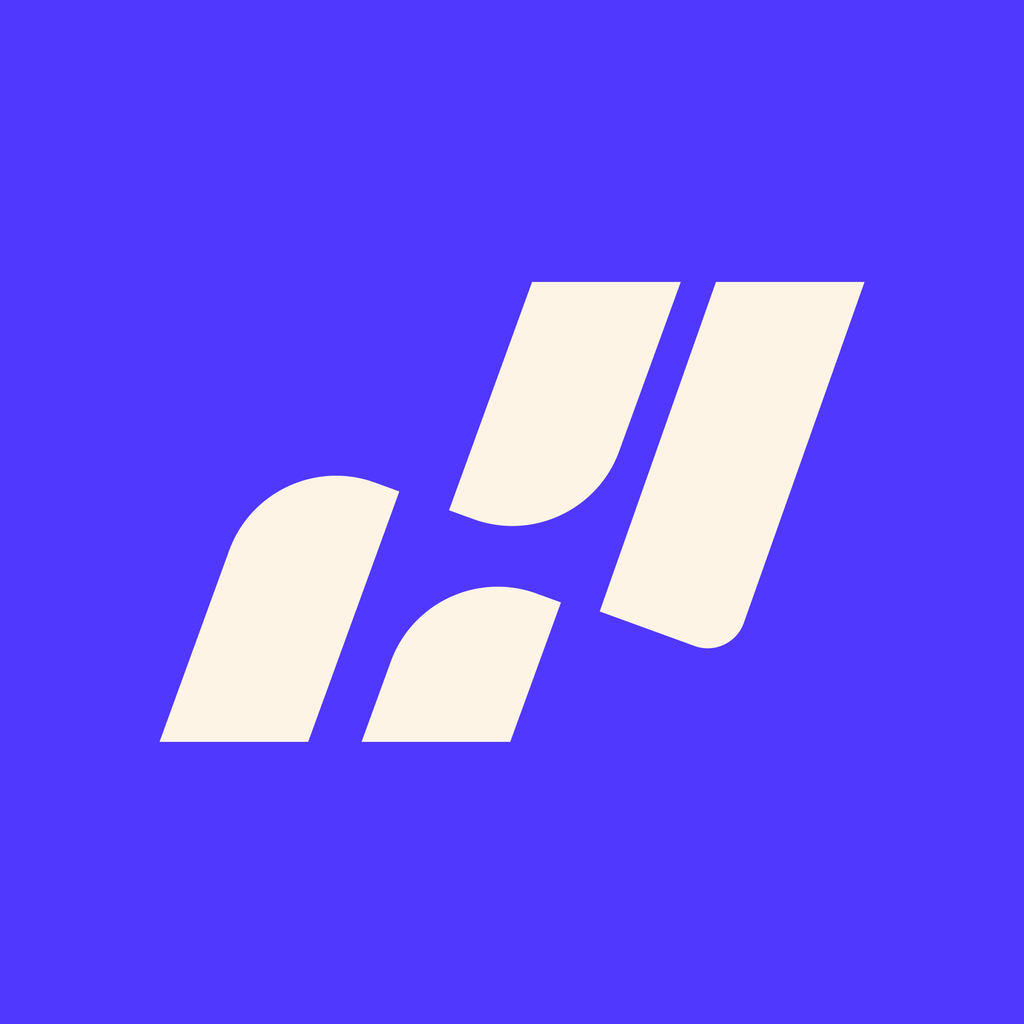
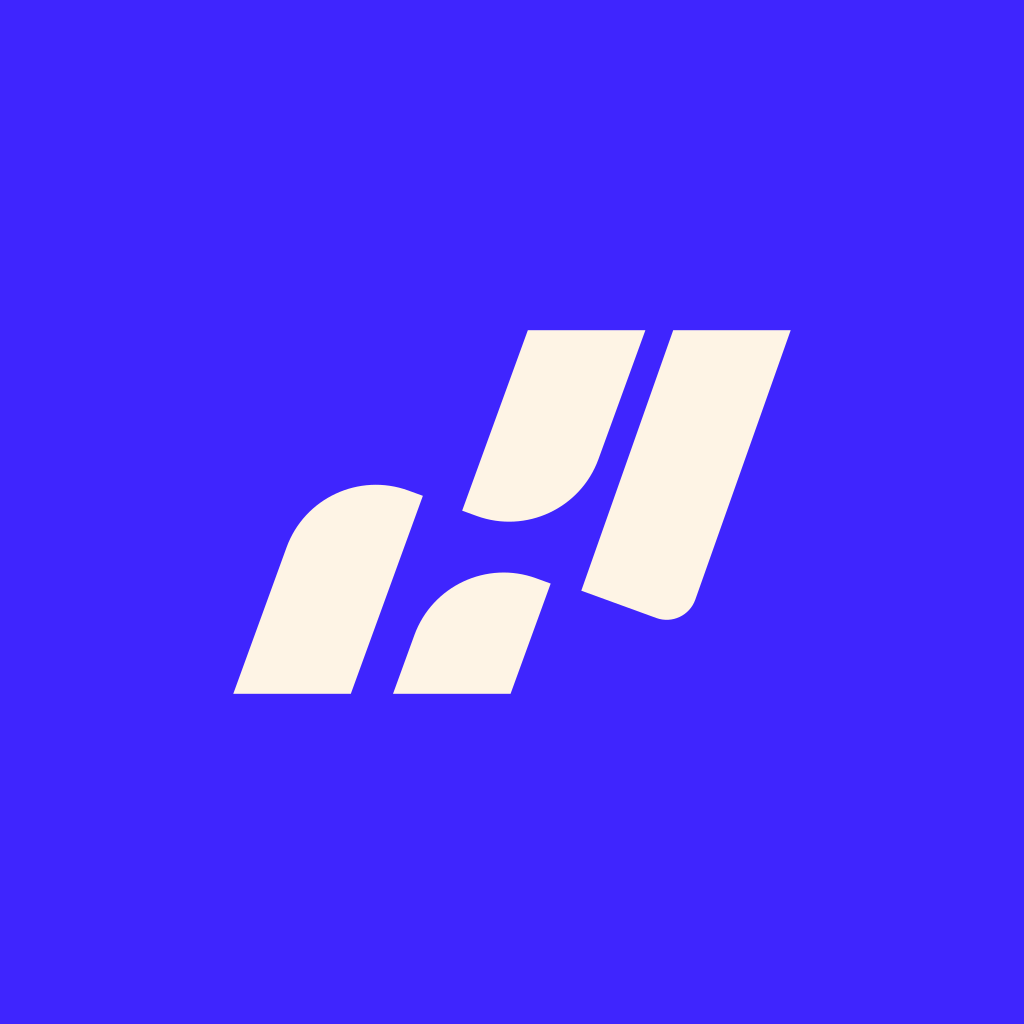
Brand: rebuild the v3 pack from vector, in the existing brand blue
Supersedes the raster-derived pass. With the v3 SVGs every colourway is generated
from the paths themselves rather than recoloured from a bitmap, so the vector pack
is real vector again and every PNG is rasterised at its final size.

Kept #3F25FE. The supplied art is drawn in #5038FF, but the product palette
(shared/theme.js colors.primary) stays authoritative, so the mark, wordmark,
lockup, app icon, adaptive-icon background and OG card are all generated in
#3F25FE and the earlier #5038FF change to adaptiveIcon.backgroundColor is reverted.

Notes on the sources:
  - The mark (Group 82) is four plain paths, so it can't use the single-path
    glyph() helper; HustlrMark is now a small component instead.
  - HUSTLR.svg carries three paths — only the first is the solid letterform, the
    other two exist to drive an outline mask we don't want. Taking the whole file
    would have rendered a hollow, outlined wordmark.
  - The lockup is composed here from mark + wordmark rather than recolouring the
    supplied lockup, so any colourway can be generated exactly from one geometry.

glyphs.tsx now carries the v3 paths. This matters more than the PNGs: web/app/page.tsx
— the public landing page — renders HustlrMark/HustlrWordmark inline in five places,
so it was still showing the previous logo. Verified 5 v3 glyphs on the rendered page,
including the cream-on-blue variant, no console errors.

Logo ratios re-measured again to 1560/379 and 620/404 — the composed lockup is a
[…]

Changed region(s): [[0.1562, 0.25, 0.8438, 0.75]]

diff --git a/web/components/brand/glyphs.tsx b/web/components/brand/glyphs.tsx
@@ -15,16 +15,21 @@ function glyph(viewBox: string, d: string, fillRule?: "evenodd") {
   };
 }
 
-export const HustlrMark = glyph(
-  "0 0 1210 1400",
-  "M326.38,1398.45C327.21,1396.28 481.02,1113.89 538.09,1009.75L549.46,989.00L692.55,989.00C788.13,989.00 837.60,989.35 841.57,990.05C873.44,995.70 900.30,1018.43 911.08,1048.90C918.10,1068.73 917.57,1092.41 909.67,1111.96C907.80,1116.60 804.37,1307.43 781.76,1347.95C773.35,1363.04 767.63,1370.51 758.84,1377.90C747.38,1387.54 735.65,1393.56 720.47,1397.58C713.83,1399.34 704.43,1399.45 519.64,1399.74C342.99,1400.01 325.82,1399.90 326.38,1398.45ZM77.19,987.93C40.47,983.16 9.60,953.89 1.89,916.52C-1.56,899.79 0.24,880.66 6.72,865.44C10.03,857.63 117.25,660.55 122.83,652.00C131.45,638.79 148.69,624.96 163.79,619.14C180.95,612.54 157.97,613.00 468.96,613.00C624.08,613.00 751.00,613.28 751.00,613.62C751.00,613.96 705.04,698.56 648.87,801.62L546.74,989.00L315.12,988.87C187.73,988.80 80.66,988.38 77.19,987.93ZM755.46,611.25C755.82,610.29 779.90,565.85 808.96,512.50C838.01,459.15 865.16,408.98 869.29,401.00C873.42,393.02 922.90,301.90 979.25,198.50C1051.64,65.68 1082.79,9.42 1085.39,6.83C1094.26,-2.00 1111.79,-2.07 1117.54,6.70C1120.93,11.88 1168.07,281.22 1186.90,403.00C1201.34,496.37 1210.46,564.55 1209.72,573.50C1207.72,597.55 1189.70,609.34 1150.90,611.99C1142.26,612.58 1060.09,612.98 945.64,612.99C764.28,613.00 754.82,612.91 755.46,611.25Z",
-  "evenodd"
-);
+// v3 mark — four separate shapes, so it can't use the single-path glyph() helper.
+export function HustlrMark(props: GlyphProps) {
+  return (
+    <svg viewBox="0 0 2934 1914" fill="currentColor" aria-hidden focusable="false" {...props}>
+      <path d="M1670.57 1333.66L1459.39 1913.86H840.77L953.302 1604.68C1047.75 1345.19 1334.67 1211.4 1594.16 1305.85L1670.57 1333.66Z" />
+      <path d="M1921.97 678.973C1827.52 938.462 1540.6 1072.26 1281.11 977.81L1204.7 949.998L1550.47 0H2169.1L1921.97 678.973Z" />
+      <path d="M2431.72 1418.15C2402.1 1501.81 2309.96 1545.27 2226.56 1514.91L1831.69 1371.19L2315.52 0H2933.89L2431.72 1418.15Z" />
+      <path d="M280.632 1142.83C375.078 883.34 661.999 749.547 921.488 843.993L997.899 871.804L618.623 1913.86H0L280.632 1142.83Z" />
+    </svg>
+  );
+}
 
 export const HustlrWordmark = glyph(
-  "0 0 2600 588",
-  "M650.50,586.89C621.63,583.76 593.40,574.68 571.27,561.39C556.50,552.51 547.23,545.25 535.00,532.98C512.85,510.74 498.99,485.46 491.78,454.16L489.55,444.50L489.26,228.25L488.96,12.00L559.46,12.00L629.96,12.00L630.26,223.75C630.59,459.11 630.03,440.18 637.16,454.68C646.31,473.25 669.75,481.68 690.59,473.88C698.21,471.03 706.77,462.87 711.42,454.02C718.96,439.67 718.39,457.80 718.74,222.75L719.05,12.00L789.52,12.00L860.00,12.00L860.00,222.28C860.00,361.36 859.65,435.42 858.96,441.03C852.85,490.99 823.75,533.80 776.82,561.89C757.78,573.29 734.16,581.42 708.09,585.57C696.31,587.44 662.70,588.22 650.50,586.89ZM1125.50,587.42C1123.85,587.19 1118.22,586.52 1113.00,585.92C1078.07,581.96 1045.58,568.62 1020.50,547.95C989.20,522.15 969.06,487.25 959.64,442.50C957.17,430.76 954.26,408.41 955.09,407.57C955.93,406.74 1082.23,385.02 1083.10,385.56C1083.60,385.87 1084.00,388.68 1084.00,391.81C1084.01,400.62 1085.95,414.54 1088.64,425.00C1094.30,446.99 1106.59,464.36 1121.60,471.58C1139.88,480.37 1164.32,477.87 1177.45,465.87C1191.07,453.42 1193.76,431.16 1184.04,411.40C1180.70,404.62 1178.44,401.75 1170.25,393.90C1164.87,388.73 1155.75,381.31 1149.98,377.41C1139.45,370.28 1107.86,351.20 1085.50,338.46C1039.54,312.28 1008.70,286.16 988.75,256.50C969.71,228.19 961.66,204.01 958.85,166.76C955.42,121.25 968.63,85.84 1000.90,54.00C1014.52,40.57 1026.81,31.85 1045.14,22.61C1074.25,7.95 1100.51,1.58 1137.00,0.34C1188.16,-1.40 1230.22,12.80 1261.72,42.45C1287.40,66.63 1303.63,98.61 1310.84,139.26L1312.75,150.02L1310.63,150.50C1309.46,150.76 1281.95,155.70 1249.50,161.47C1217.05,167.25 1189.76,172.15 1188.85,172.37C1187.48,172.69 1186.99,171.36 1186.02,164.75C1183.45,147.18 1178.89,134.82 1171.28,124.84C1163.49,114.62 1153.26,110.27 1139.67,111.41C1115.24,113.44 1101.83,125.97 1100.26,148.20C1099.07,165.15 1104.52,178.71 1117.90,192.02C1133.40,207.46 1142.26,213.50 1190.50,241.51C1235.19,267.47 1251.58,278.72 1271.50,297.11C1301.25,324.58 1319.90,356.12 1326.98,390.94C1331.34,412.35 1332.37,441.56 1329.40,459.07C1321.58,505.09 1291.30,542.51 1242.50,566.48C1222.44,576.33 1204.56,581.86 1181.00,585.51C1171.05,587.05 1132.41,588.38 1125.50,587.42ZM0.00,294.00L0.00,11.99L70.75,12.24L141.50,12.50L141.75,125.75L142.01,239.00L187.50,239.00L233.00,239.00L233.00,125.49L233.00,11.99L303.75,12.24L374.50,12.50L374.50,294.00L374.50,575.50L303.75,575.76L233.00,576.01L233.00,463.01L233.00,350.00L187.50,350.00L142.01,350.00L141.75,462.75L141.50,575.50L70.75,575.76L0.00,576.01L0.00,294.00ZM1505.00,575.75C1505.00,575.61 1504.89,473.80 1504.75,349.50L1504.50,123.50L1442.75,123.24L1381.00,122.98L1381.00,67.49L1381.00,12.00L1575.00,12.00L1769.00,12.00L1769.00,67.50L1769.00,123.00L1707.50,123.00L1646.00,123.00L1646.00,349.50L1646.00,576.00L1575.50,576.00C1536.72,576.00 1505.00,575.89 1505.00,575.75ZM1853.46,574.75C1853.20,574.06 1853.10,447.28 1853.24,293.00L1853.50,12.50L1924.25,12.24L1995.00,11.99L1995.00,238.49L1995.00,465.00L2072.50,465.00L2150.00,465.00L2150.00,520.50L2150.00,576.00L2001.97,576.00C1884.46,576.00 1853.84,575.74 1853.46,574.75ZM2234.00,294.00L2234.00,12.00L2319.75,12.01C2370.31,12.02 2410.43,12.45 2417.50,13.05C2444.38,15.37 2466.84,21.67 2490.50,33.52C2508.70,42.63 2521.04,51.26 2534.82,64.48C2561.12,89.73 2577.08,119.79 2582.48,154.25C2583.88,163.14 2584.10,170.73 2583.79,199.22C2583.43,232.59 2583.34,233.82 2580.61,245.50C2571.96,282.55 2550.99,314.75 2520.50,337.79C2517.20,340.28 2514.16,342.62 2513.74,342.97C2513.21,343.43 2586.62,541.33 2599.53,574.26C2600.18,575.92 2596.68,576.00 2530.99,575.76L2461.77,575.50L2424.64,476.25L2387.52,377.00L2381.76,377.00L2376.00,377.00L2376.00,476.50L2376.00,576.00L2305.00,576.00L2234.00,576.00L2234.00,294.00ZM2414.15,263.12C2429.62,257.12 2439.22,242.79 2442.06,221.46C2443.76,208.70 2442.78,166.41 2440.61,158.50C2438.02,149.08 2433.56,140.96 2427.85,135.22C2418.43,125.77 2409.42,123.02 2387.75,123.01L2376.00,123.00L2376.00,194.62L2376.00,266.23L2392.25,265.77C2405.86,265.39 2409.42,264.96 2414.15,263.12Z",
-  "evenodd"
+  "0 0 7751 1792",
+  "M185 1040V756.5H873.5V1040H185ZM738.5 1706V85.9999H1112V1706H738.5ZM50 1706V85.9999H423.5V1706H50ZM2173.54 1271.75V85.9999H2547.04V1271.75H2173.54ZM1494.04 1271.75V85.9999H1867.54V1271.75H1494.04ZM2547.04 1269.5C2547.04 1359.5 2523.79 1440.5 2477.29 1512.5C2430.79 1583 2367.79 1639.25 2288.29 1681.25C2208.79 1721.75 2118.79 1742 2018.29 1742V1458.5C2066.29 1458.5 2103.79 1442 2130.79 1409C2159.29 1376 2173.54 1329.5 2173.54 1269.5H2547.04ZM1494.04 1269.5H1867.54C1867.54 1329.5 1881.04 1376 1908.04 1409C1936.54 1442 1974.79 1458.5 2022.79 1458.5V1742C1922.29 1742 1832.29 1721.75 1752.79 1681.25C1673.29 1639.25 1610.29 1583 1563.79 1512.5C1517.29 1440.5 1494.04 1359.5 1494.04 1269.5ZM3566.05 1314.5C3566.05 1265 3549.55 1223 3516.55 1188.5C3483.55 1154 3440.8 1121.75 3388.3 1091.75C3337.3 1060.25 3282.55 1028 3224.05 995C3165.55 960.5 3110.05 920.75 3057.55 875.75C3006.55 830.75 2964.55 776 2931.55 711.5C2898.55 647 2882.05 568.25 2882.05 475.25H3255.55C3255.55 523.25 3272.05 565.25 3305.05 601.25C3338.05 635.75 3380.05 668.75 3431.05 700.25C3483.55 730.25 3539.05 762.5 3597.55 797C3656.05 830 3710.8 869 3761.8 914C3814.3 959 3857.05 1013.75 3890.05 1078.25C3923.05 1142.75 3939.55 1221.5 3939.55 1314.5H3566.05ZM2882.05 477.5C2882.05 395 2905.3 322.25 2951.8 259.25C2998.3 194.75 3061.3 143.75 3140.8 106.25C3220.3 68.7499 3310.3 49.9999 3410.8 49.9999V333.5C3362.8 333.5 3324.55 346.25 3296.05 371.75C3269.05 397.25 3255.55 432.5 3255.55 477.5H2882.05ZM3939.55 1314.5C3939.55 1397 3916.3 1470.5 3869.8 1535C3823.3 1598 3760.3 1648.25 3680.8 1685.75C3601.3 1723.25 3511.3 1742 3410.8 1742V1458.5C3458.8 1458.5 3496.3 1445.75 3523.3 1420.25C3551.8 1394.75 3566.05 1359.5 3566.05 1314.5H3939.55ZM3554.8 511.25C3547.3 454.25 3530.8 410.75 3505.3 380.75C3481.3 349.25 3449.8 333.5 3410.8 333.5V49.9999C3496.3 49.9999 3571.3 65.7499 3635.8 97.2499C3701.8 128.75 3755.8 174.5 3797.8 234.5C3839.8 294.5 3867.55 367.25 3881.05 452.75L3554.8 511.25ZM3208.3 1190.75C3212.8 1274.75 3233.05 1340.75 3269.05 1388.75C3305.05 1435.25 3352.3 1458.5 3410.8 1458.5V1742C3256.3 1742 3131.8 1698.5 3037.3 1611.5C2942.8 1524.5 2888.05 1403.75 2873.05 1249.25L3208.3 1190.75ZM4131.73 369.5V85.9999H5234.23V369.5H4131.73ZM4496.23 1706V85.9999H4869.73V1706H4496.23ZM5833.34 1706V1422.5H6359.84V1706H5833.34ZM5527.34 1706V85.9999H5900.84V1706H5527.34ZM7318.78 1706L7039.78 961.25H7399.78L7678.78 1706H7318.78ZM7003.78 1118.75V835.25H7116.28V1118.75H7003.78ZM7003.78 369.5V85.9999H7116.28V369.5H7003.78ZM7269.28 648.5V556.25H7642.78V648.5H7269.28ZM7642.78 558.5H7269.28C7269.28 498.5 7255.03 452 7226.53 419C7199.53 386 7162.03 369.5 7114.03 369.5V85.9999C7214.53 85.9999 7304.53 107 7384.03 149C7463.53 189.5 7526.53 245.75 7573.03 317.75C7619.53 388.25 7642.78 468.5 7642.78 558.5ZM7642.78 646.25C7642.78 736.25 7619.53 817.25 7573.03 889.25C7526.53 959.75 7463.53 1016 7384.03 1058C7304.53 1098.5 7214.53 1118.75 7114.03 1118.75V835.25C7162.03 835.25 7199.53 818.75 7226.53 785.75C7255.03 752.75 7269.28 706.25 7269.28 646.25H7642.78ZM6652.78 1706V85.9999H7026.28V1706H6652.78Z"
 );
 
 export const IconArrow = glyph(

diff --git a/web/components/Logo.tsx b/web/components/Logo.tsx
@@ -14,7 +14,7 @@ import { classNames } from "@/lib/format";
 // the art is replaced — a stale ratio silently stretches every logo in the app.
 // Note the v3 wordmark art is the full horizontal lockup (H-mark + "HUSTLR"), not
 // text alone, which is why it is far wider than the version it replaced.
-const WORDMARK_RATIO = 1560 / 259; // wordmark-*.png
+const WORDMARK_RATIO = 1560 / 379; // wordmark-*.png (the horizontal lockup)
 const MONOGRAM_RATIO = 620 / 404; // monogram-*.png
 
 export default function Logo({

diff --git a/src/components/Logo.js b/src/components/Logo.js
@@ -12,7 +12,7 @@ import { Image, View } from 'react-native';
 const WORDMARK = {
   blue: require('../../shared/assets/brand/wordmark-blue.png'),
   cream: require('../../shared/assets/brand/wordmark-cream.png'),
-  ratio: 1560 / 259,
+  ratio: 1560 / 379,
 };
 const MONOGRAM = {
   blue: require('../../shared/assets/brand/monogram-blue.png'),
